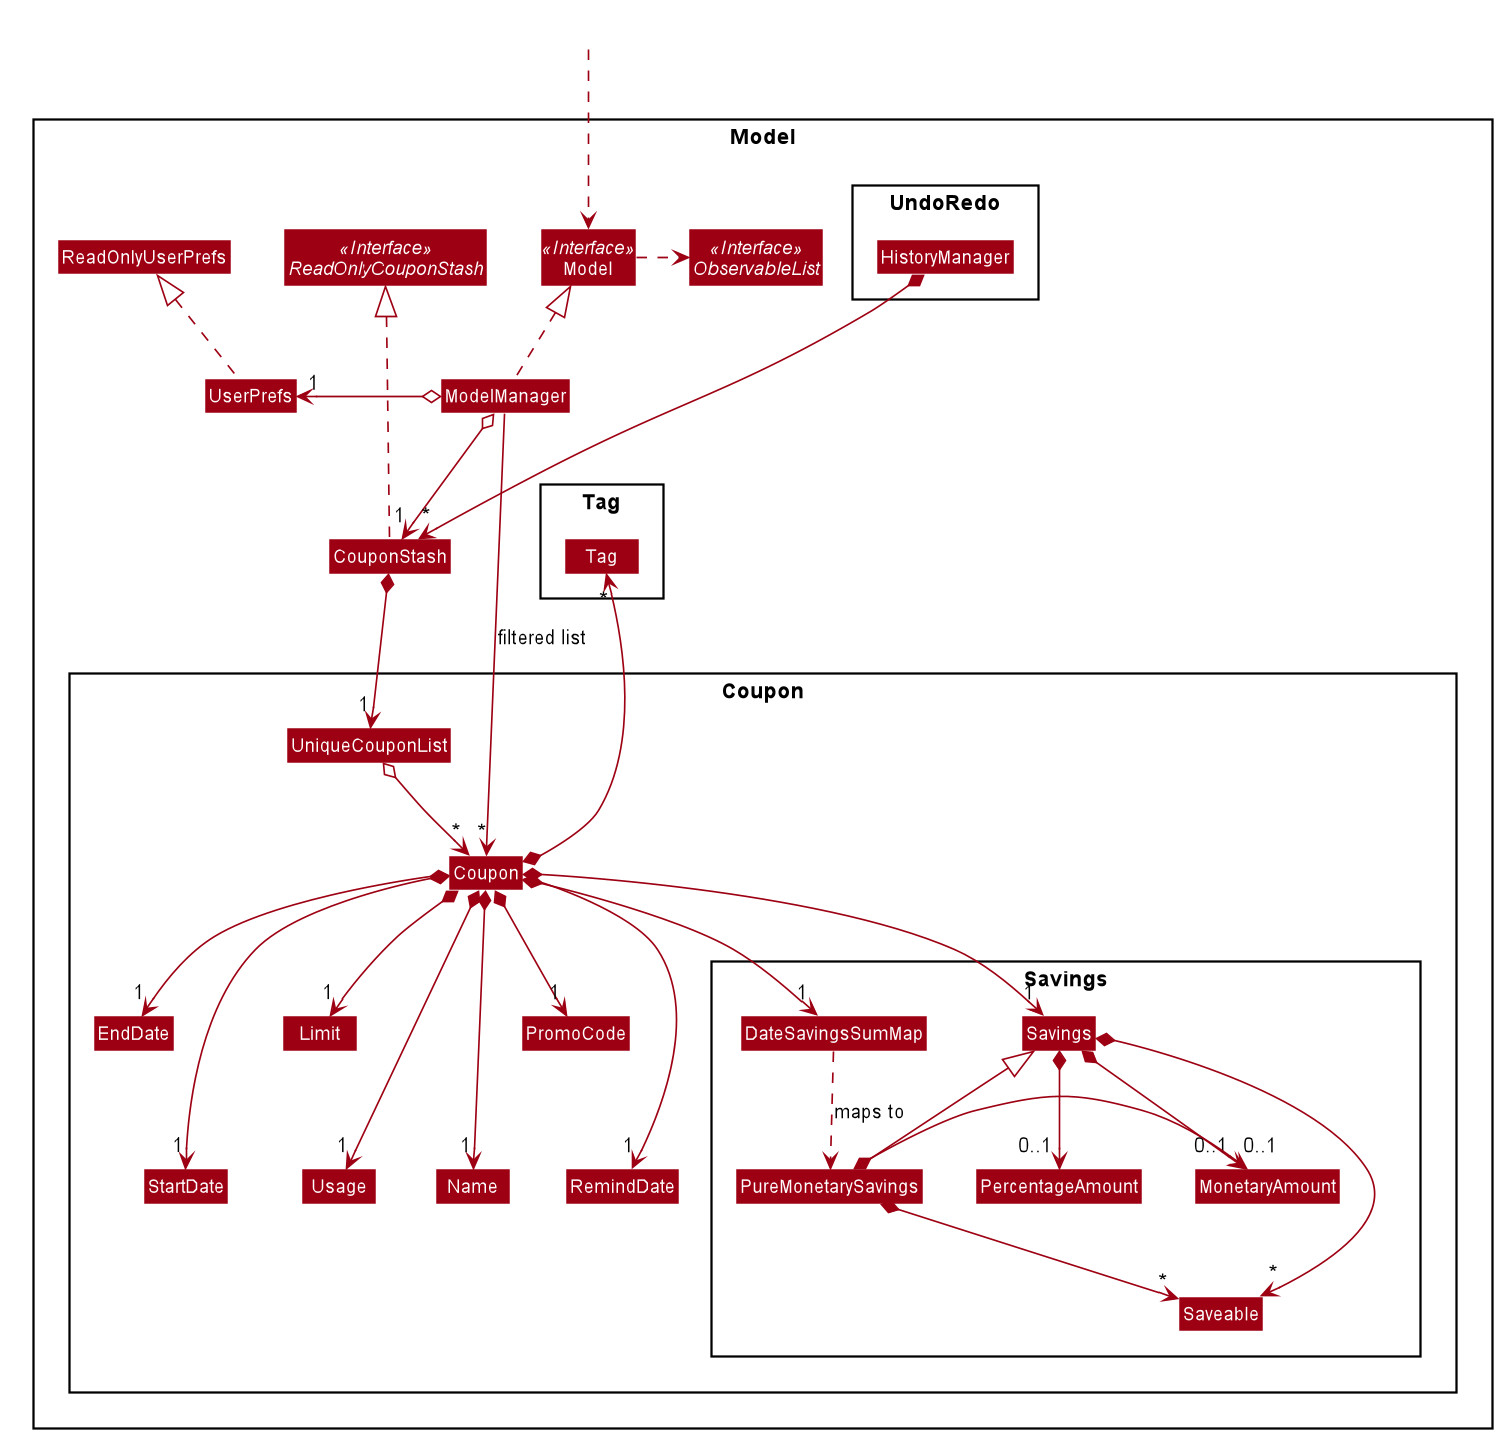
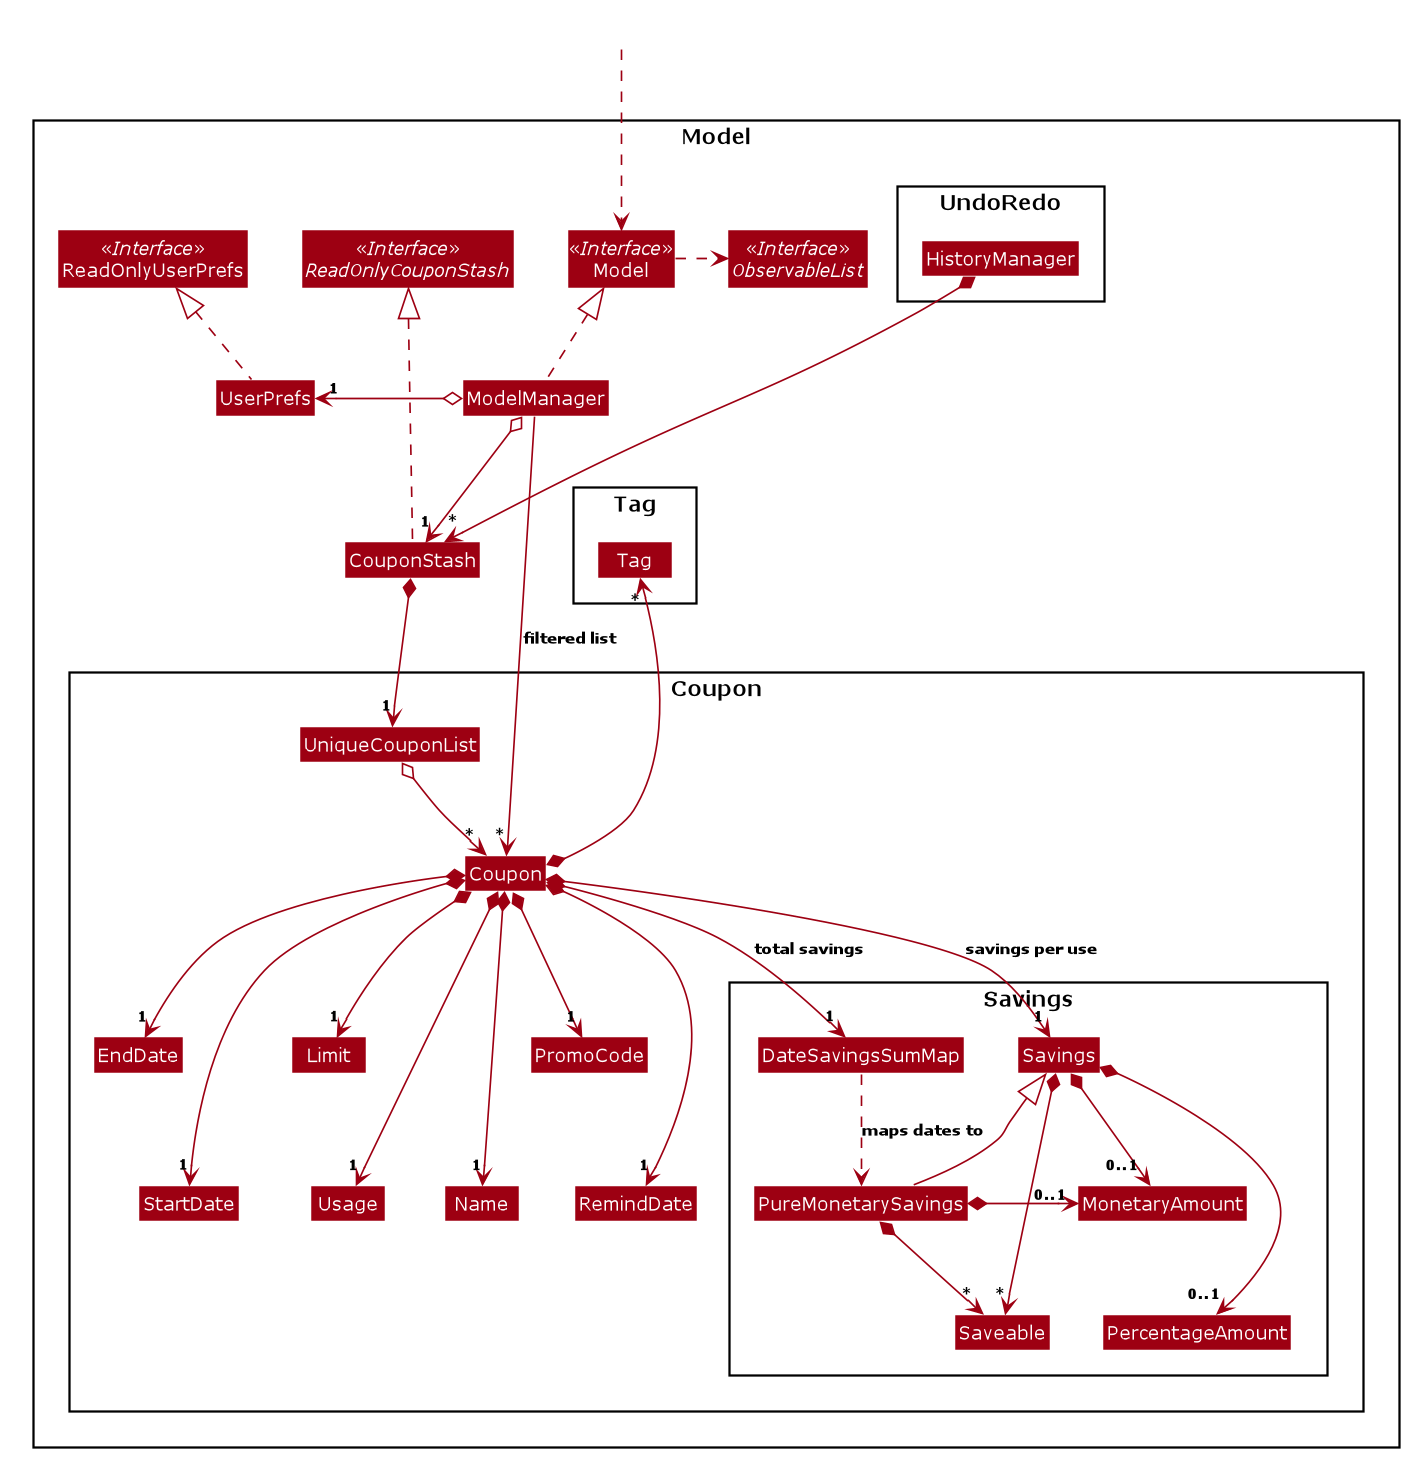
Rebuild pages at dd6f6b137b6721df751f72dfec68b135fc6502c9

diff --git a/DeveloperGuide.html b/DeveloperGuide.html
@@ -29,6 +29,7 @@
 <li><a href="#Implementation-Coupon-Archiving">3.5. Coupon Archiving</a></li>
 <li><a href="#up-down-arrow-command-history">3.6. Up/down arrow command history</a></li>
 <li><a href="#coupon-reminder">3.7. Coupon Reminder</a></li>
+<li><a href="#savings-per-use-and-total-amount-saved">3.8. Savings per use and total amount saved</a></li>
 </ul>
 </li>
 <li><a href="#documentation">4. Documentation</a></li>
@@ -1021,6 +1022,314 @@ are set to be reminded on a certain date.</p>
 <p>RemindCommand#ShowRemind - Will execute checking of all coupons and alert the user when</p>
 </li>
 </ul>
+</div>
+</div>
+</div>
+<div class="sect2">
+<h3 id="savings-per-use-and-total-amount-saved"><a class="link" href="#savings-per-use-and-total-amount-saved">3.8. Savings per use and total amount saved</a></h3>
+<div class="paragraph">
+<p>To allow users to keep track of how much they have saved
+(after all, the whole point of coupons is to offer
+certain tangible benefits, encouraging purchases
+by customers), Coupon Stash automatically tracks the
+user&#8217;s savings as they use their coupons that are
+handled in the application.</p>
+</div>
+<div class="paragraph">
+<p>To achieve this, Coupons have to store two different
+fields:<br>
+1. Amount of savings each use of a coupon provides<br>
+2. Total amount of savings accumulated
+from using a certain coupon</p>
+</div>
+<div class="sect3">
+<h4 id="class-structure-of-savings"><a class="link" href="#class-structure-of-savings">3.8.1. Class structure of Savings</a></h4>
+<div class="paragraph">
+<p>Just for reference, the image below shows the class diagram
+for the Savings class. It is compulsory for each Coupon to
+contain an Savings object, that represents what the user
+would gain from 1 use of that Coupon.</p>
+</div>
+<div class="imageblock">
+<div class="content">
+<img src="images/SavingsClassDiagram.png" alt="SavingsClassDiagram">
+</div>
+</div>
+<div class="paragraph">
+<p>A Savings object can hold a PercentageAmount, MonetaryAmount or
+Saveables, which represents discounts like "$5 off", "10% off"
+and "free door gift" respectively.</p>
+</div>
+<div class="paragraph">
+<p>The table below shows which are valid Savings objects, and
+which are not.</p>
+</div>
+<table class="tableblock frame-all grid-all spread">
+<colgroup>
+<col style="width: 50%;">
+<col style="width: 50%;">
+</colgroup>
+<tbody>
+<tr>
+<td class="tableblock halign-left valign-top"><p class="tableblock">Object Diagram</p></td>
+<td class="tableblock halign-left valign-top"><p class="tableblock">Comments</p></td>
+</tr>
+<tr>
+<td class="tableblock halign-left valign-top"><div><div class="paragraph">
+<p><span class="image"><img src="images/s1valid.png" alt="s1valid"></span></p>
+</div></div></td>
+<td class="tableblock halign-left valign-top"><p class="tableblock">Valid</p></td>
+</tr>
+<tr>
+<td class="tableblock halign-left valign-top"><div><div class="paragraph">
+<p><span class="image"><img src="images/s2valid.png" alt="s2valid"></span></p>
+</div></div></td>
+<td class="tableblock halign-left valign-top"><p class="tableblock">Valid</p></td>
+</tr>
+<tr>
+<td class="tableblock halign-left valign-top"><div><div class="paragraph">
+<p><span class="image"><img src="images/s3valid.png" alt="s3valid"></span></p>
+</div></div></td>
+<td class="tableblock halign-left valign-top"><p class="tableblock">Valid</p></td>
+</tr>
+<tr>
+<td class="tableblock halign-left valign-top"><div><div class="paragraph">
+<p><span class="image"><img src="images/s4invalid.png" alt="s4invalid"></span></p>
+</div></div></td>
+<td class="tableblock halign-left valign-top"><p class="tableblock">Invalid: Savings must have at
+least one field</p></td>
+</tr>
+<tr>
+<td class="tableblock halign-left valign-top"><div><div class="paragraph">
+<p><span class="image"><img src="images/s5valid.png" alt="s5valid"></span></p>
+</div></div></td>
+<td class="tableblock halign-left valign-top"><p class="tableblock">Valid: Savings can have both a
+percentage amount and saveables</p></td>
+</tr>
+<tr>
+<td class="tableblock halign-left valign-top"><div><div class="paragraph">
+<p><span class="image"><img src="images/s6valid.png" alt="s6valid"></span></p>
+</div></div></td>
+<td class="tableblock halign-left valign-top"><p class="tableblock">Valid: Savings can hold more
+than one Saveable</p></td>
+</tr>
+<tr>
+<td class="tableblock halign-left valign-top"><div><div class="paragraph">
+<p><span class="image"><img src="images/s7invalid.png" alt="s7invalid"></span></p>
+</div></div></td>
+<td class="tableblock halign-left valign-top"><p class="tableblock">Invalid: Savings cannot have both a
+MonetaryAmount and PercentageAmount</p></td>
+</tr>
+</tbody>
+</table>
+<div class="paragraph">
+<p>As can be seen from the table, Savings cannot be completely
+empty, and Savings cannot have both a MonetaryAmount and
+PercentageAmount (it does not make much sense to have
+a voucher that says "10% and $5 off").</p>
+</div>
+</div>
+<div class="sect3">
+<h4 id="puremonetarysavings-and-datesavingssummap"><a class="link" href="#puremonetarysavings-and-datesavingssummap">3.8.2. PureMonetarySavings and DateSavingsSumMap</a></h4>
+<div class="paragraph">
+<p>In order to calculate the total amount saved, Coupons also
+store information about how much the user saves, and storage
+is done at the moment the user uses the coupon. This
+information is stored in the form of PureMonetarySavings,
+which is a subclass of Savings that never holds
+PercentageAmounts. The class diagram below illustrates this.</p>
+</div>
+<div class="paragraph">
+<p><span class="image"><img src="images/PureMonetarySavingsClassDiagram.png" alt="PureMonetarySavingsClassDiagram"></span></p>
+</div>
+<div class="paragraph">
+<p>The reason why PercentageAmounts are not allowed in
+accumulated savings is because a percentage
+discount is a relative value that depends on the
+original price of the product, and cannot be easily
+added up in a way that allows users to accurately
+measure how much they have saved from their coupons.</p>
+</div>
+<div id="dssm" class="paragraph">
+<p>PureMonetarySavings are stored in
+a DateSavingsSumMap, which is a hash table that
+links the current date (LocalDate) to the savings
+earned (PureMonetarySavings) on that date.
+Each Coupon holds a DateSavingsSumMap. The
+next image shows the class diagram of the
+DateSavingsSumMap.</p>
+</div>
+<div class="imageblock">
+<div class="content">
+<img src="images/DateSavingsSumMapClassDiagram.png" alt="DateSavingsSumMapClassDiagram">
+</div>
+</div>
+<div class="paragraph">
+<p>The following section describes
+the processes that follow whenever a user marks a Coupon
+as "used" with the <code>used</code> command.</p>
+</div>
+</div>
+<div class="sect3">
+<h4 id="implementation-of-used-command"><a class="link" href="#implementation-of-used-command">3.8.3. Implementation of used command</a></h4>
+<div class="paragraph">
+<p>When the user enters a used command, the actions taken by Coupon
+Stash change depending on whether the Coupon&#8217;s Savings stores
+a MonetaryAmount of PercentageAmount. The following activity
+diagram shows what happens when the user runs a used command.</p>
+</div>
+<div class="imageblock">
+<div class="content">
+<img src="images/UsedCommandActivityDiagram.png" alt="UsedCommandActivityDiagram">
+</div>
+</div>
+<div class="paragraph">
+<p>In terms of the implementation, the next two images
+shows the sequence diagram that models the successful
+execution of a used command within the actual
+program components.</p>
+</div>
+<div class="paragraph">
+<p>More specifically, the used command executed is
+<code>used 1 $100</code>, and the state of the system is such that
+a Coupon with PercentageAmount in its Savings (no
+MonetaryAmount) and with Usage not at its Limit
+is located at index 1. Also, the money symbol
+set in the user preferences would be $, which
+makes this command a valid one that will execute
+successfully.</p>
+</div>
+<div class="imageblock">
+<div class="content">
+<img src="images/UsedCommandSeqDiagram.png" alt="UsedCommandSeqDiagram">
+</div>
+</div>
+<div class="paragraph">
+<p>The money symbol set in the user preferences is
+retrieved by CouponStashParser, which passes it
+to UsedCommandParser that will use this symbol
+to parse the used command.</p>
+</div>
+<div class="paragraph">
+<p>Also, within UsedCommand, the execute() method
+will cause the creation of a new Coupon with the
+correct recorded number of uses and amount of
+savings earned. The next sequence diagram shows
+how the execute() method interacts with other
+components to produce the new total savings
+value for the new Coupon.</p>
+</div>
+<div class="imageblock">
+<div class="content">
+<img src="images/UsedExecutionSeqDiagram.png" alt="UsedExecutionSeqDiagram">
+</div>
+</div>
+<div class="paragraph">
+<p>In the end, the total savings value of the Coupon
+is updated. This total savings is represented by
+a <a href="#dssm">DateSavingsSumMap</a>.</p>
+</div>
+</div>
+<div class="sect3">
+<h4 id="implementation-of-saved-command"><a class="link" href="#implementation-of-saved-command">3.8.4. Implementation of saved command</a></h4>
+<div class="paragraph">
+<p>Now that we have seen how the used command works,
+we can look at how the saved command works. While
+<code>used</code> stores the amount of savings that the user
+has earned on a particular day, <code>saved</code> retrieves
+the amount of savings earned as recorded by Coupon
+Stash, given a particular time period.</p>
+</div>
+<div class="paragraph">
+<p>The saved command works similarly to the used command,
+where a SavedCommandParser will be created by Logic
+to split up the raw String into its arguments,
+creating a SavedCommand. Let&#8217;s look at how a SavedCommand
+would be executed.</p>
+</div>
+<div class="imageblock">
+<div class="content">
+<img src="images/SavedExecutionSeqDiagram.png" alt="SavedExecutionSeqDiagram">
+</div>
+</div>
+<div class="paragraph">
+<p>Hence the SavedCommand loops through all Coupons to add
+up the savings earned from a particular time period,
+or from all dates if no time period is specified.</p>
+</div>
+</div>
+<div class="sect3">
+<h4 id="design-considerations-5"><a class="link" href="#design-considerations-5">3.8.5. Design considerations</a></h4>
+<div class="paragraph">
+<p>Based on the User Stories, there is a desire for tracking
+how much one has saved by using Coupon Stash, as well
+as for viewing total savings easily. Below are
+some alternative implementations of savings tracking
+and viewing that were considered by the developers,
+but were rejected in favour of the current
+implementation.</p>
+</div>
+<div class="paragraph">
+<p>Alternatives:</p>
+</div>
+<div class="ulist">
+<ul>
+<li>
+<p>Restrict each Savings to a concrete monetary value</p>
+</li>
+</ul>
+</div>
+<div class="paragraph">
+<p>This would make the implementation of Savings much
+simpler, as there would not be a need for separate
+classes like PercentageAmount, MonetaryAmount and
+Saveables. However, this might burden the user with
+calculating how much they would save in terms of
+dollars and cents, when many coupons and discounts
+come in the form of certain percentage reductions
+of the original price, as well as free gifts of
+benefits that cannot be translatable to a concrete
+monetary amount.</p>
+</div>
+<div class="paragraph">
+<p>Hence, it was decided to rely on a few different
+representations of Savings that can be earned from
+using a Coupon, as well as a Savings class that
+could refer to any of these representations, or
+even a logical combination of these representations.</p>
+</div>
+<div class="ulist">
+<ul>
+<li>
+<p>Each Coupon stores a MonetaryAmount, PercentageAmount
+and Saveables directly</p>
+</li>
+</ul>
+</div>
+<div class="paragraph">
+<p>This would eliminate the need for the intermediary
+Savings class and reduce complication in the program
+code slightly. But, it would be difficult to ensure
+that at least one such field exists in the Coupon,
+or guarantee that the Coupon would have one such field.</p>
+</div>
+<div class="paragraph">
+<p>The Coupon class would have to hold the logic for
+determining whether it had a valid combination of
+MonetaryAmount, PercentageAmount and Saveables,
+which does violate Single Responsibility Principle
+as the Coupon class now has another reason to change
+(if we would want to allow both MonetaryAmount and
+PercentageAmount on a Coupon for instance).</p>
+</div>
+<div class="paragraph">
+<p>Hence the Savings class was decided to handle this
+responsibility, as well as abstract away the
+implementation details of the multiple possible
+values and combinations of these values. This allows
+the Coupon to think in terms of an entire Savings
+object, rather than handle multiple different scenarios
+depending on which fields it has.</p>
 </div>
 </div>
 </div>
@@ -2380,4 +2689,4 @@ Expected: Similar to previous.</p>
 </div>
 </div>
 </div>
-</div></div><div id="footer"><div class="container"><div id="footer-text">Last updated 2020-03-28 02:24:46 UTC</div></div></div></body></html>
+</div></div><div id="footer"><div class="container"><div id="footer-text">Last updated 2020-03-28 03:32:34 UTC</div></div></div></body></html>

diff --git a/tutorials/RemovingFields.html b/tutorials/RemovingFields.html
@@ -175,4 +175,4 @@ While keeping the <code>address</code> field in the json files does not cause th
 <p>You can go through each individual <code>json</code> file and manually remove the <code>address</code> field.</p>
 </div>
 </div>
-</div></div><div id="footer"><div class="container"><div id="footer-text">Last updated 2020-03-28 02:24:47 UTC</div></div></div></body></html>
+</div></div><div id="footer"><div class="container"><div id="footer-text">Last updated 2020-03-28 03:32:34 UTC</div></div></div></body></html>

diff --git a/tutorials/AddRemark.html b/tutorials/AddRemark.html
@@ -616,4 +616,4 @@ In this case, <code>CommandTestUtil#assertCommandSuccess</code> is the best fit 
 <p>This concludes the tutorial for adding a new <code>Command</code> to AddressBook.</p>
 </div>
 </div>
-</div></div><div id="footer"><div class="container"><div id="footer-text">Last updated 2020-03-28 02:24:47 UTC</div></div></div></body></html>
+</div></div><div id="footer"><div class="container"><div id="footer-text">Last updated 2020-03-28 03:32:34 UTC</div></div></div></body></html>

diff --git a/Testing.html b/Testing.html
@@ -90,4 +90,4 @@ e.g. <code>LogicManagerTest</code></p>
 <div class="title">Figure 1. <code>Accessibility</code> permission is granted to <code>IntelliJ IDEA</code></div>
 </div>
 </div>
-</div></div><div id="footer"><div class="container"><div id="footer-text">Last updated 2020-03-28 02:24:46 UTC</div></div></div></body></html>
+</div></div><div id="footer"><div class="container"><div id="footer-text">Last updated 2020-03-28 03:32:34 UTC</div></div></div></body></html>

diff --git a/team/johndoe.html b/team/johndoe.html
@@ -404,4 +404,4 @@ This is the behavior that most modern desktop applications follow.</p>
 <p><em>{Optionally, you may include other projects in your portfolio.}</em></p>
 </div>
 </div>
-</div></div><div id="footer"><div class="container"><div id="footer-text">Last updated 2020-03-28 02:24:47 UTC</div></div></div></body></html>
+</div></div><div id="footer"><div class="container"><div id="footer-text">Last updated 2020-03-28 03:32:34 UTC</div></div></div></body></html>

diff --git a/LearningOutcomes.html b/LearningOutcomes.html
@@ -474,4 +474,4 @@ of storages, but different number of storages (e.g. save to both a text file and
 </div>
 </div>
 </div>
-</div></div><div id="footer"><div class="container"><div id="footer-text">Last updated 2020-03-28 02:24:46 UTC</div></div></div></body></html>
+</div></div><div id="footer"><div class="container"><div id="footer-text">Last updated 2020-03-28 03:32:34 UTC</div></div></div></body></html>

diff --git a/SettingUp.html b/SettingUp.html
@@ -180,4 +180,4 @@ Having both Travis and AppVeyor ensures your App works on both Unix-based platfo
 </div>
 </div>
 </div>
-</div></div><div id="footer"><div class="container"><div id="footer-text">Last updated 2020-03-28 02:24:46 UTC</div></div></div></body></html>
+</div></div><div id="footer"><div class="container"><div id="footer-text">Last updated 2020-03-28 03:32:34 UTC</div></div></div></body></html>

diff --git a/UsingCoveralls.html b/UsingCoveralls.html
@@ -111,4 +111,4 @@ If you have not set up Travis CI, see <a href="UsingTravis.html">UsingTravis.ado
 </ol>
 </div>
 </div>
-</div></div><div id="footer"><div class="container"><div id="footer-text">Last updated 2020-03-28 02:24:46 UTC</div></div></div></body></html>
+</div></div><div id="footer"><div class="container"><div id="footer-text">Last updated 2020-03-28 03:32:34 UTC</div></div></div></body></html>

diff --git a/UsingGradle.html b/UsingGradle.html
@@ -228,4 +228,4 @@ See <code>build.gradle</code> &#8594; <code>allprojects</code> &#8594; <code>dep
 </ul>
 </div>
 </div>
-</div></div><div id="footer"><div class="container"><div id="footer-text">Last updated 2020-03-28 02:24:46 UTC</div></div></div></body></html>
+</div></div><div id="footer"><div class="container"><div id="footer-text">Last updated 2020-03-28 03:32:34 UTC</div></div></div></body></html>

diff --git a/UsingNetlify.html b/UsingNetlify.html
@@ -138,4 +138,4 @@ The publish directory is the directory in which the built HTML documentation res
 </ol>
 </div>
 </div>
-</div></div><div id="footer"><div class="container"><div id="footer-text">Last updated 2020-03-28 02:24:46 UTC</div></div></div></body></html>
+</div></div><div id="footer"><div class="container"><div id="footer-text">Last updated 2020-03-28 03:32:34 UTC</div></div></div></body></html>

diff --git a/Documentation.html b/Documentation.html
@@ -226,4 +226,4 @@ The SE-EDU team does not provide support for modified template files.</p>
 </table>
 </div>
 </div>
-</div></div><div id="footer"><div class="container"><div id="footer-text">Last updated 2020-03-28 02:24:46 UTC</div></div></div></body></html>
+</div></div><div id="footer"><div class="container"><div id="footer-text">Last updated 2020-03-28 03:32:34 UTC</div></div></div></body></html>

diff --git a/UsingTravis.html b/UsingTravis.html
@@ -292,4 +292,4 @@ Suggested change: Remove the codacy badge from <code>README</code>.</p>
 </div>
 </div>
 </div>
-</div></div><div id="footer"><div class="container"><div id="footer-text">Last updated 2020-03-28 02:24:46 UTC</div></div></div></body></html>
+</div></div><div id="footer"><div class="container"><div id="footer-text">Last updated 2020-03-28 03:32:34 UTC</div></div></div></body></html>
